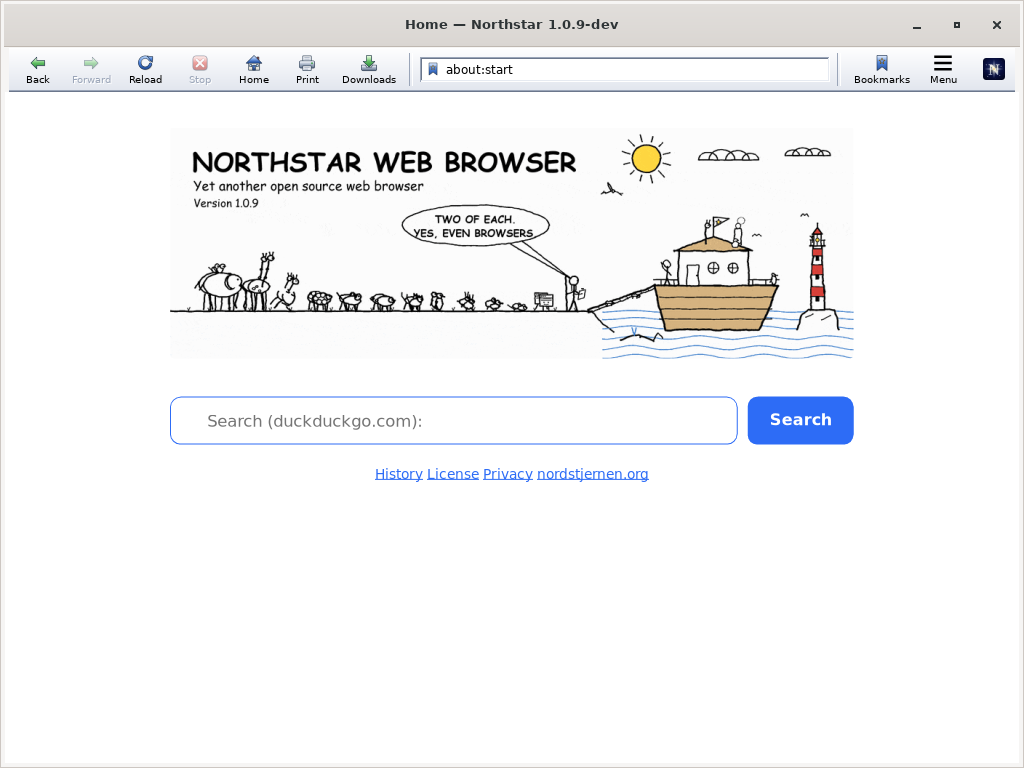
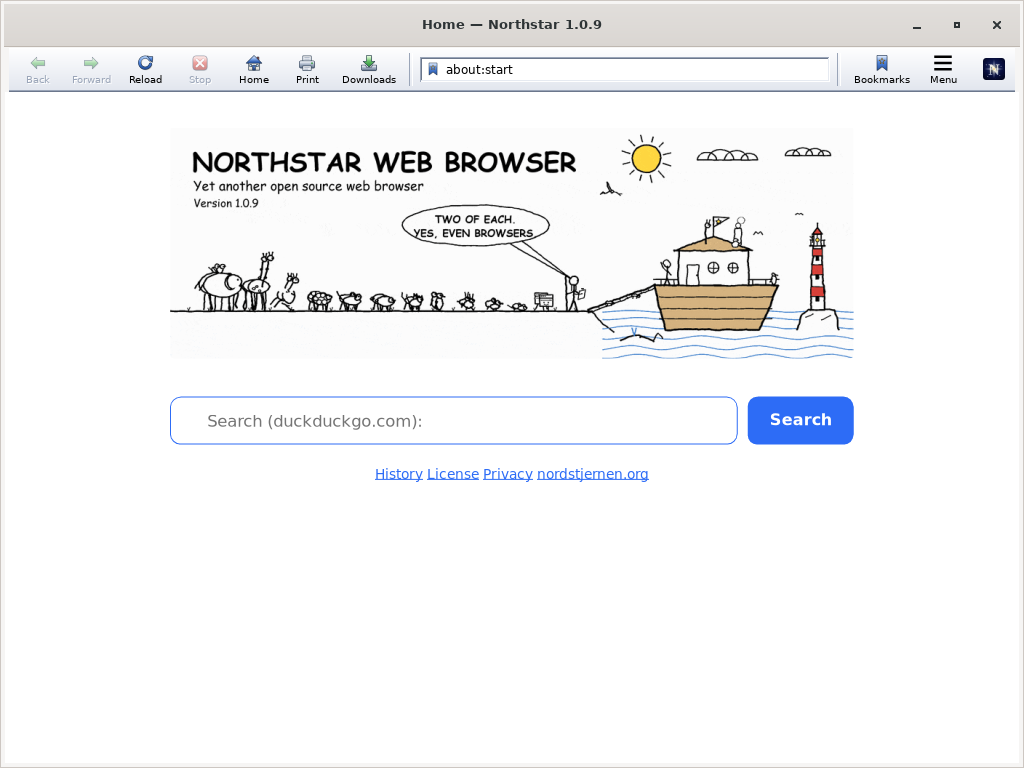
Update README for the 1.0.9 architecture and recapture its screenshot
The README's minimalism paragraph and feature list now describe the
engine thread inside the shell process rather than renderer processes
and a request protocol, the typed calc() math, the Cache API and the
site-partitioned cookie store, and pin quickjs-ng at v0.17.0. The
screenshot is recaptured from the 1.0.9 window at 1024x768.

Placeholder text in a text input is no longer spell-checked: layout
already withheld spell ranges from a placeholder, but the painter's
whole-run fallback underlined every run inside an editable host, so
the about:start search box showed a squiggle under its own hint. The
fallback now applies only to contenteditable hosts.

Claude-Session: https://claude.ai/code/session_01PRxHojygm17fQZCGwgtbY4

diff --git a/src/paint.c b/src/paint.c
@@ -2493,7 +2493,8 @@ paint_spell_underlines(NsPangoAttrList *attrs, const ns_box *b)
     const ns_node *owner = NULL;
     for (const ns_box *bx = b; bx && !owner; bx = bx->parent)
         owner = bx->dom;
-    if (owner && ns_node_spellcheck_host(owner))
+    const ns_node *host = owner ? ns_node_spellcheck_host(owner) : NULL;
+    if (host && !ns_node_is_text_input(host))
         spell_underline_range(attrs, b->text, 0, tlen);
 }
 

diff --git a/README.md b/README.md
@@ -25,10 +25,13 @@ sandbox (plus `PR_SET_NO_NEW_PRIVS`), with a default-deny seccomp syscall
 filter in both GUI and headless/tooling modes · no JIT.
 See [SECURITY.md](SECURITY.md) for the exact per-mode posture.
 
-**Minimalism:** one window, one page, one process. The engine is a
-compact body of C — about 160,000 lines of original C (excluding the
-vendored WAMR, Wuffs and audio decoders, and the generated image-data
-tables) — small enough for one person to read and audit end-to-end.
+**Minimalism:** one window, one page, one process. The GTK shell runs on
+the main thread and the page engine on one dedicated thread with its own
+main loop, so a slow page never freezes the window, and the two talk
+through plain function calls. The engine is a compact body of C — about
+170,000 lines of original C, excluding the vendored WAMR, Wuffs and
+audio decoders — small enough for one person to read and audit
+end-to-end.
 
 ## What this edition is
 
@@ -46,7 +49,8 @@ libavif when available, and SVG in the engine).
 ## Browser features
 
 - **HTML** parsed to a DOM by lexbor; **CSS** by the engine's own
-  cascade — flex, grid, transforms, gradients, `@keyframes`, scroll snap.
+  cascade — flex, grid, transforms, gradients, `@keyframes`, scroll snap,
+  and typed `calc()` math over lengths, angles, times and resolutions.
 - **JavaScript** on the QuickJS interpreter — DOM, Shadow DOM, observer
   APIs, Canvas 2D (`Path2D`, `ImageBitmap`, `DOMMatrix`), WebCrypto
   (`crypto.subtle` over OpenSSL).
@@ -54,16 +58,19 @@ libavif when available, and SVG in the engine).
 - **Workers** — dedicated workers with structured-clone messaging,
   message channels and broadcast channels.
 - **Storage** — IndexedDB over SQLite, `localStorage`/`sessionStorage`
-  and the cache API, each partitioned by origin.
+  and the Cache API (`caches`, request/response pairs per the Service
+  Workers specification), each partitioned by site.
 - **Live connections** — WebSockets and server-sent events.
 - **Navigation API** — `window.navigation` for single-page routing.
-- **Service workers** — origin-scoped registration, persistence and
-  controlled-page fetch interception.
+- **Service workers** — origin-scoped registration, persistence,
+  controlled-page fetch interception and offline pages served from the
+  Cache API.
 - **WebExtensions** — installed local extensions with manifest content
   scripts, safe packaged resources, local storage and runtime messaging.
 - **Networking** over HTTP/2 with libcurl — HTTP/3 when the linked
   libcurl provides it — HSTS, CSP, subresource-integrity (SRI) checks,
-  partitioned cookies.
+  and cookies partitioned by site in one libcurl store that
+  `document.cookie` and network requests share.
 - **Safe browsing** — before a top-level navigation is fetched, its host
   is checked against a local SHA-256 blocklist. The check runs entirely
   on-device.
@@ -85,8 +92,8 @@ libavif when available, and SVG in the engine).
 - **Spell checking** — optional, via the Enchant library.
 - **WebAssembly** — the JavaScript API over a vendored WAMR interpreter.
 - **Single window / single process** — the browser shows one page in one
-  window, and the page engine runs in the shell process (no per-tab
-  renderer processes).
+  window, and the page engine runs on its own thread inside the shell
+  process (no renderer processes, no request protocol between the two).
 - **UI** — bookmarks, find-in-page, printing, save-to-PDF, JS console,
   settings, headless mode.
 
@@ -142,7 +149,7 @@ browser engine (no Gecko, WebKit, or Blink). It is the GPL edition of the
 | Component | Role |
 |-----------|------|
 | [lexbor](https://github.com/lexbor/lexbor) v3.0.1 | HTML5 → DOM parser and the WHATWG URL module |
-| [quickjs-ng](https://github.com/quickjs-ng/quickjs) v0.16.2 | JavaScript engine — no JIT |
+| [quickjs-ng](https://github.com/quickjs-ng/quickjs) v0.17.0 | JavaScript engine — no JIT |
 | [ns-pango](https://github.com/nordstjernen-web/ns-pango) | Text itemization, shaping and line breaking — a Pango fork with a cross-layout shaping cache |
 
 lexbor and quickjs-ng take a system copy instead when the build finds one

diff --git a/Changelog.md b/Changelog.md
@@ -4,6 +4,15 @@ Significant changes in each release:
 
 1.0.9:
 ======
+* Placeholder text in an `<input>` or `<textarea>` is no longer
+  spell-checked. The layout already withheld spell ranges from a
+  placeholder, but the painter's fallback underlined every run inside an
+  editable host, so an empty search box showed a red squiggle under its
+  own hint; the fallback now covers only `contenteditable` hosts, whose
+  runs carry no explicit ranges. The README describes the engine thread
+  in place of the removed renderer processes and request protocol, the
+  typed `calc()` math, the Cache API and the site-partitioned cookie
+  store, and its screenshot is recaptured from the 1.0.9 window.
 * Text layout is ns-pango `3c6adba`, which merges upstream Pango 1.58.2.
   Of upstream's changes, four reach code the fork carries: an overline or
   strikethrough now spans the wider of a run's ink and logical extents,
